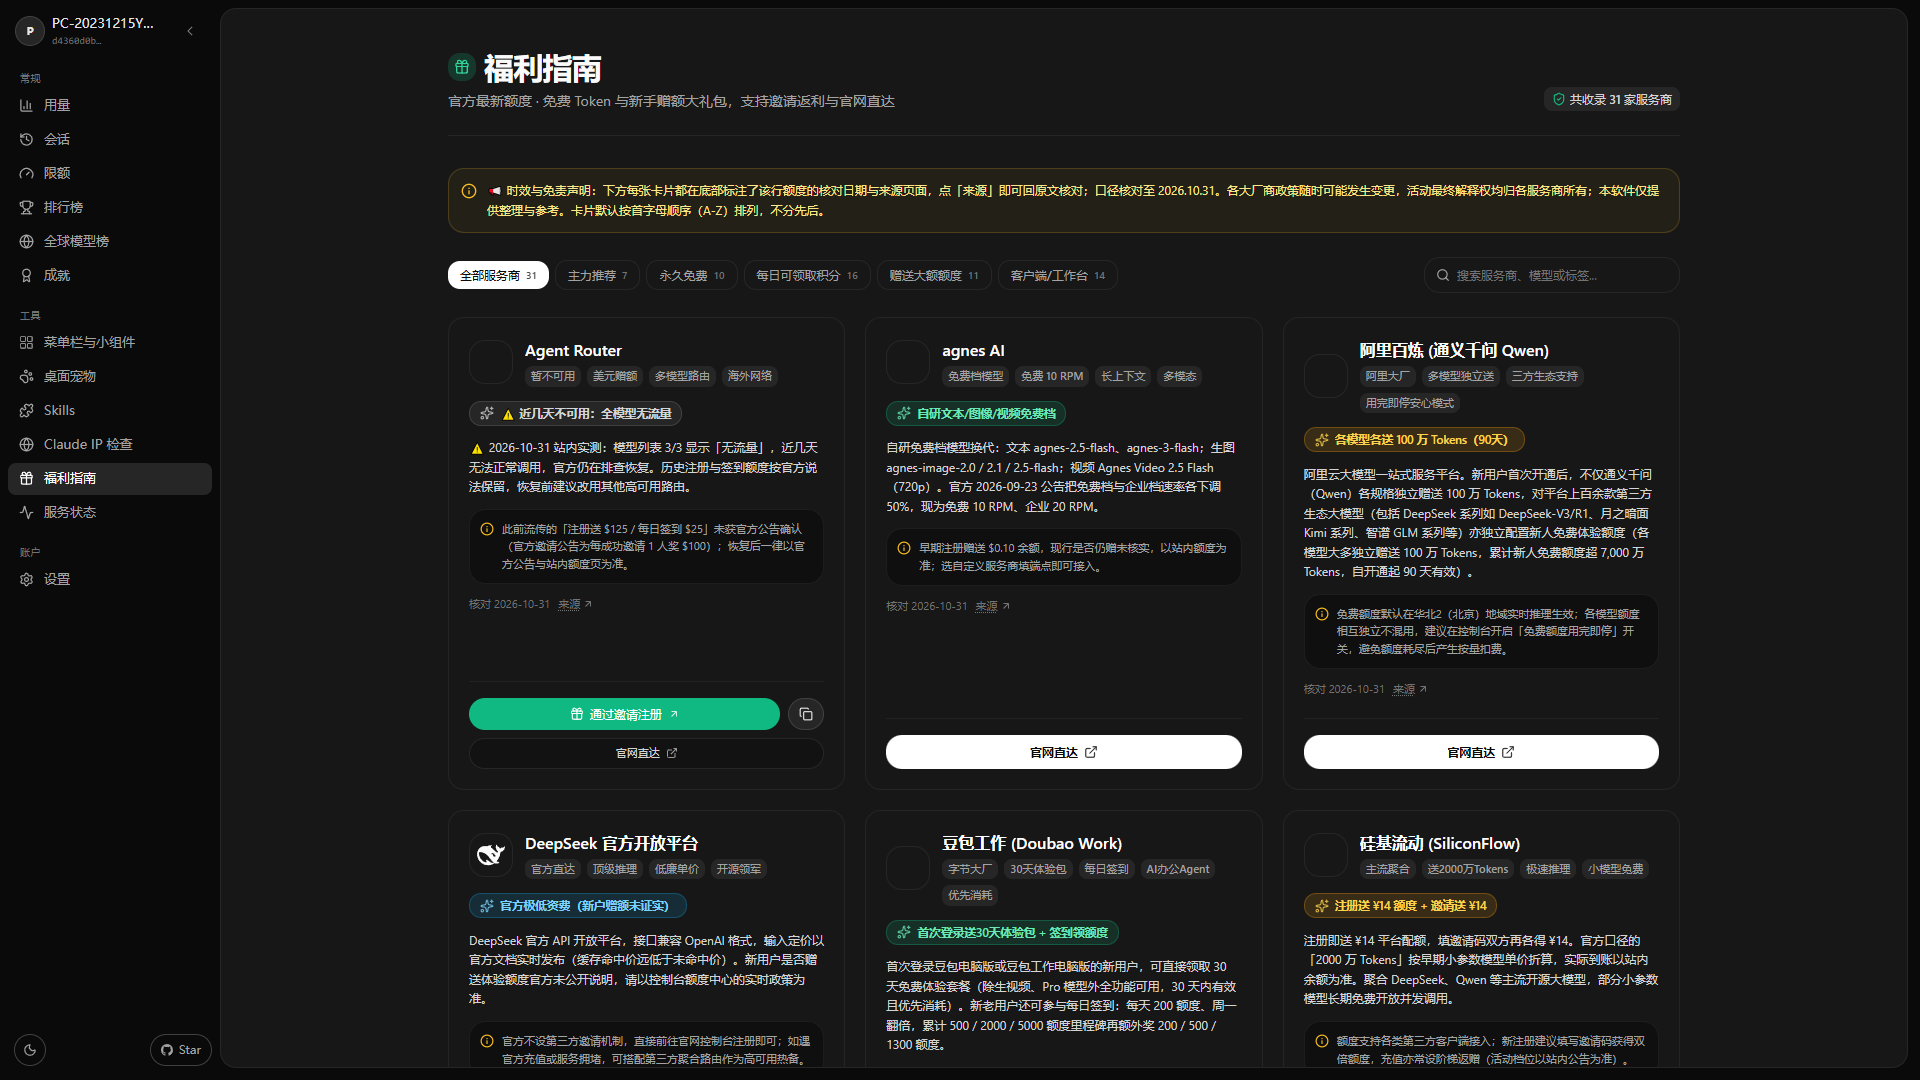
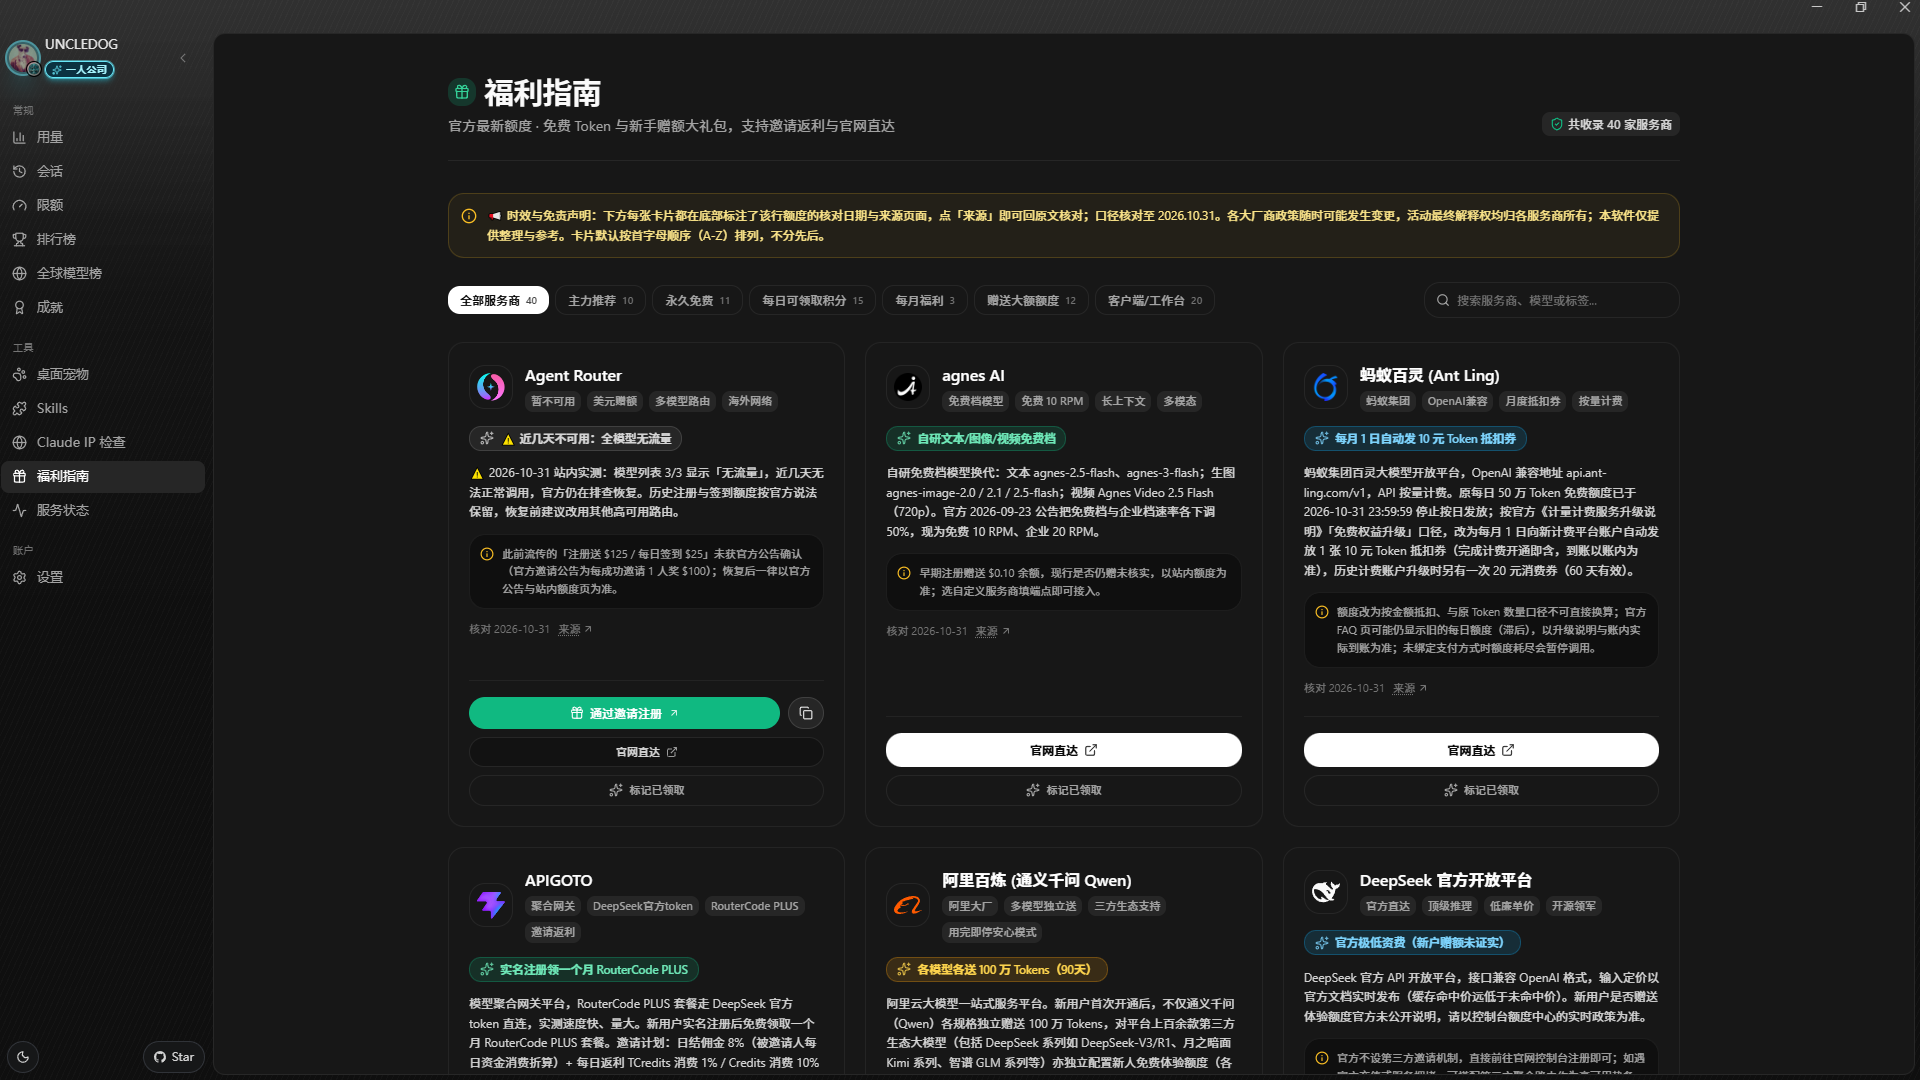
fix(perks): 百灵卡实测回填（10 元券到账/¥20 相对有效期口径）+ 排序规则锁定（英文名优先）；版本 1.10.4 热更

diff --git a/dashboard/src/data/perksData.js b/dashboard/src/data/perksData.js
@@ -95,7 +95,7 @@ export const PERK_PROVIDERS = [
     "category": [
           "monthly_claim"
     ],
-    "badge": "每月 1 日自动发 10 元 Token 抵扣券",
+    "badge": "每月 1 日自动发 10 元券（实测已到账）",
     "badgeType": "blue",
     "tags": [
       "蚂蚁集团",
@@ -103,11 +103,11 @@ export const PERK_PROVIDERS = [
       "月度抵扣券",
       "按量计费"
     ],
-    "description": "蚂蚁集团百灵大模型开放平台，OpenAI 兼容地址 api.ant-ling.com/v1，API 按量计费。原每日 50 万 Token 免费额度已于 2026-10-31 23:59:59 停止按日发放；按官方《计量计费服务升级说明》「免费权益升级」口径，改为每月 1 日向新计费平台账户自动发放 1 张 10 元 Token 抵扣券（完成计费开通即含，到账以账内为准），历史计费账户升级时另有一次 20 元消费券（60 天有效）。",
-    "tips": "额度改为按金额抵扣、与原 Token 数量口径不可直接换算；官方 FAQ 页可能仍显示旧的每日额度（滞后），以升级说明与账内实际到账为准；未绑定支付方式时额度耗尽会暂停调用。",
+    "description": "蚂蚁集团百灵大模型开放平台，OpenAI 兼容地址 api.ant-ling.com/v1，API 按量计费。原每日 50 万 Token 免费额度已于 2026-10-31 停止按日发放；改为每月 1 日向新计费平台账户自动发放 1 张 10 元 Token 抵扣券（适用于全部模型，2026-11-01 实测到账，账内显示有效期至 2026-11-30）；历史计费账户完成升级另得一次 20 元 Token 消费券（自实际到账之日起 60 天内有效，适用于全部模型）；券仅可抵扣模型调用消费，不可提现或转让。",
+    "tips": "到账查看：百灵计费平台 → 财务管理 → 账户充值 → 赠送额度（悬停可见每张券的适用模型/剩余/有效期）；额度按金额抵扣、与原 Token 数量口径不可直接换算；旧模型 Ling-2.6-1T / Ring-2.6-1T / Ling-2.6-flash 将于 2026-11-15 下线，请切换新版模型。",
     "officialUrl": "https://developer.ant-ling.com",
     "hasInvite": false,
-    "checkedAt": "2026-10-31",
+    "checkedAt": "2026-11-01",
     "sourceUrl": "https://developer.ant-ling.com/zh-CN/docs/models/price"
   },
   {
